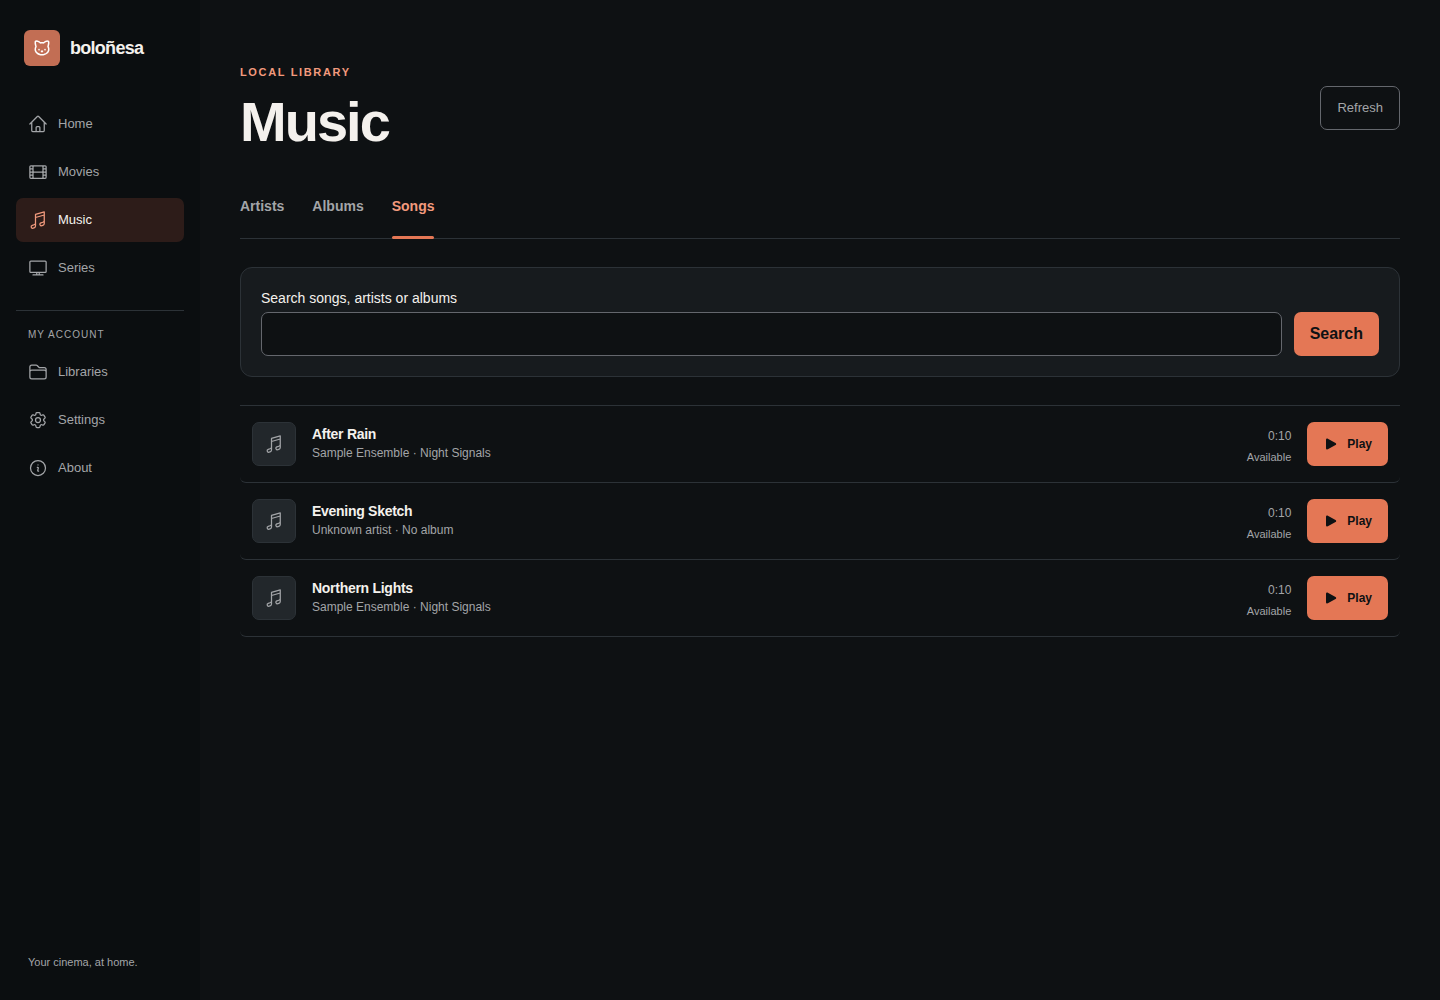
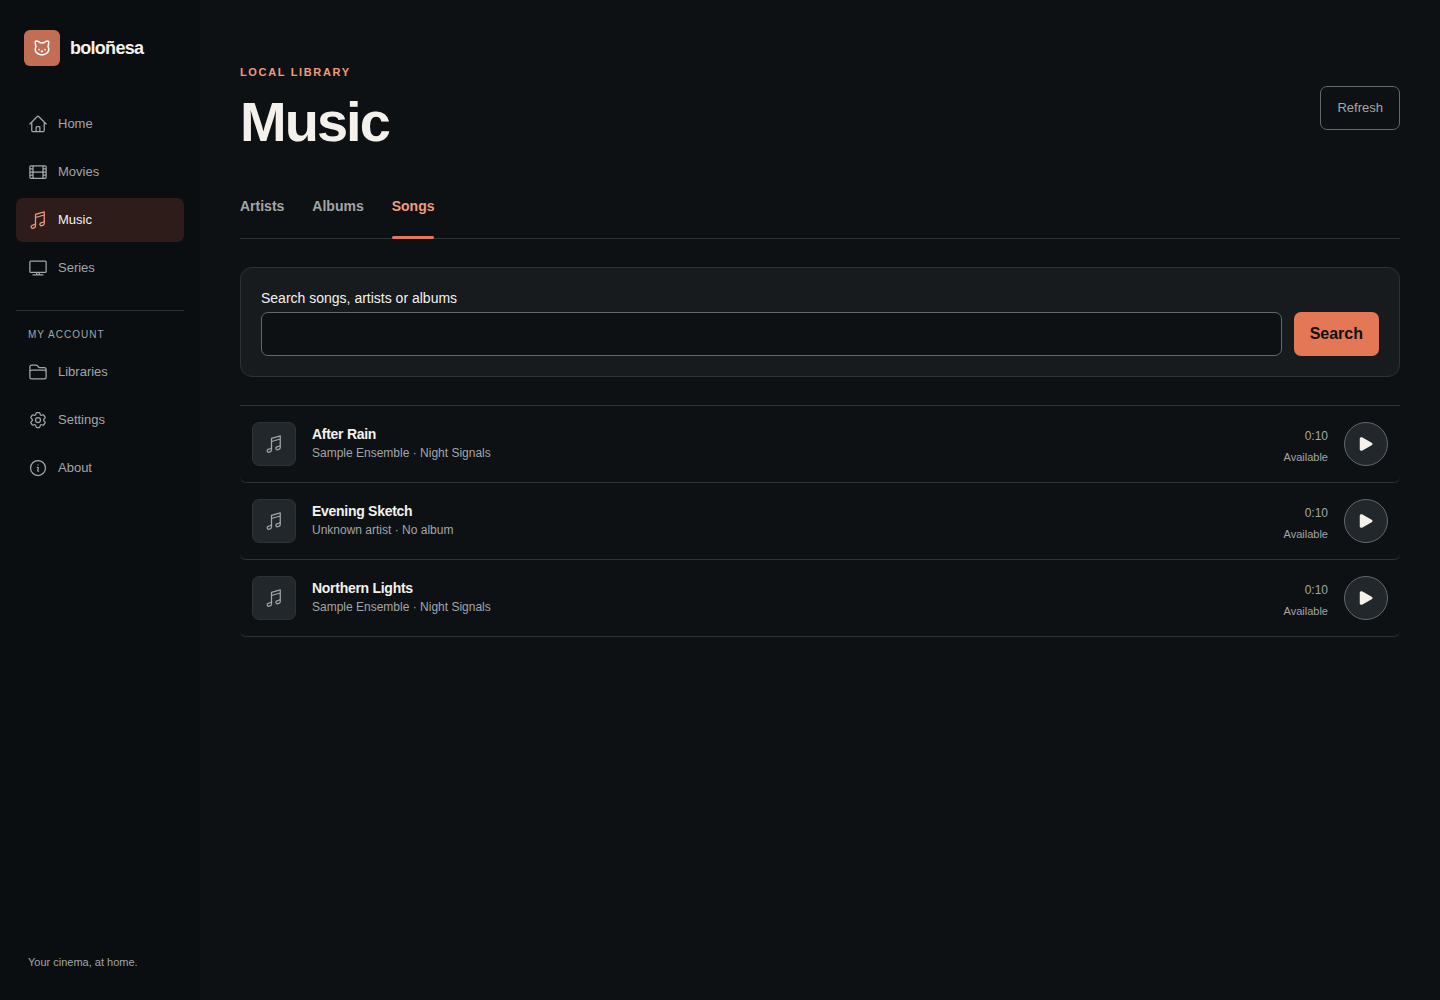
feat(music): show active track playback state

Changed region(s): [[0.875, 0.496, 0.9688, 0.62], [0.875, 0.403, 0.9688, 0.465]]

diff --git a/assets/css/music.css b/assets/css/music.css
@@ -66,7 +66,6 @@
   .music-search button { padding-inline: 12px; }
   .music-group-card { padding: 0; }
   .music-track-art { display: none; }
-  .music-play-label { display: none; }
   .music-track-row { padding-inline: 4px; gap: 10px; }
   .music-album-heading { grid-template-columns: 1fr; padding: 20px; }
   .music-detail-art { width: 100px; grid-row: auto; }
@@ -76,3 +75,32 @@
 .music-player-frame media-i18n, .music-player-frame audio-player { display: contents; }
 .music-player-frame audio-skin { display: block; width: 100%; --media-accent-color: var(--color-accent); --media-accent-text-color: var(--color-canvas); --media-font-family: inherit; }
 .music-player-frame audio { width: 100%; }
+
+/* Playback state belongs to the audio element, including rows inserted by a patch. */
+.app-content .music-track-play { display: inline-flex; align-items: center; justify-content: center; flex-shrink: 0; width: 44px; height: 44px; border: 1px solid var(--color-border-strong); border-radius: 50%; background: var(--color-raised); color: var(--color-ink); }
+.music-track-play:hover { background: var(--color-accent); color: var(--color-canvas); border-color: var(--color-accent); }
+.music-pause-icon, .music-playing-label, .music-paused-label, .music-equalizer { display: none; }
+.music-track-row[data-playback="playing"], .music-track-row[data-playback="paused"] { background: color-mix(in srgb, var(--color-accent) 10%, var(--color-canvas)); box-shadow: inset 3px 0 var(--color-accent); }
+.music-track-row[data-playback] h2 { transition: color .15s; }
+.music-track-row[data-playback="playing"] h2, .music-track-row[data-playback="paused"] h2 { color: var(--color-accent-soft); }
+[data-playback="playing"] .music-playing-label, [data-playback="paused"] .music-paused-label { display: inline; color: var(--color-accent-soft); font-weight: 600; }
+[data-playback="playing"] .music-track-state, [data-playback="paused"] .music-track-state,
+[data-playback="playing"] .music-track-note, [data-playback="paused"] .music-track-note,
+[data-playback="playing"] .music-play-icon { display: none; }
+[data-playback="playing"] .music-pause-icon { display: inline-block; }
+[data-playback="playing"] .music-track-play { background: var(--color-accent); color: var(--color-canvas); border-color: var(--color-accent); }
+[data-playback="playing"] .music-equalizer, [data-playback="paused"] .music-equalizer { display: flex; align-items: center; gap: 3px; height: 20px; color: var(--color-accent-soft); }
+.music-equalizer i { width: 3px; height: 14px; border-radius: 2px; background: currentColor; transform: scaleY(.4); }
+[data-playback="playing"] .music-equalizer i { animation: music-equalize .9s ease-in-out infinite alternate; }
+.music-equalizer i:nth-child(2) { animation-delay: -.6s; height: 20px; }
+.music-equalizer i:nth-child(3) { animation-delay: -.3s; height: 11px; }
+@keyframes music-equalize { to { transform: scaleY(1); } }
+@media (prefers-reduced-motion: reduce) {
+  [data-playback="playing"] .music-equalizer i { animation: none; transform: none; }
+  .music-track-row[data-playback] h2 { transition: none; }
+}
+
+@media (max-width: 479px) {
+  .music-track-row[data-playback="playing"] .music-track-art,
+  .music-track-row[data-playback="paused"] .music-track-art { display: grid; width: 32px; height: 32px; }
+}

diff --git a/assets/js/hooks/audio_track_list.js b/assets/js/hooks/audio_track_list.js
@@ -1,0 +1,47 @@
+// Rows are streamed independently of the player. Reconcile after list patches too.
+export function syncTrackRows(list, audio, source) {
+  for (const row of list.querySelectorAll("[data-track-src]")) {
+    const current = row.dataset.trackSrc === source && !audio.ended && !audio.error
+    const playing = current && !audio.paused
+    row.dataset.playback = current ? (playing ? "playing" : "paused") : ""
+    const button = row.querySelector(".music-track-play")
+    if (button) button.setAttribute("aria-label", playing ? button.dataset.pauseLabel : button.dataset.playLabel)
+  }
+}
+
+export function connectTrackRows(frame, audio, pushEvent) {
+  const list = frame.closest?.(".music-library")?.querySelector("#music-tracks")
+  if (!list) return {sync() {}, destroy() {}}
+  let destroyed = false
+  const sync = () => syncTrackRows(list, audio, frame.dataset.src)
+  const events = ["playing", "pause", "ended", "error", "emptied"]
+  for (const event of events) audio.addEventListener(event, sync)
+  const observer = new MutationObserver(sync)
+  observer.observe(list, {childList: true, subtree: true})
+  const click = event => {
+    const button = event.target.closest(".music-track-play")
+    if (!button || button.closest("[data-track-src]")?.dataset.trackSrc !== frame.dataset.src) return
+    event.preventDefault()
+    event.stopImmediatePropagation()
+    if (!audio.paused && !audio.ended) audio.pause()
+    else {
+      const generation = frame.dataset.generation
+      audio.play().catch(error => {
+        if (!destroyed && generation === frame.dataset.generation && error.name !== "AbortError") {
+          pushEvent(error.name === "NotAllowedError" ? "audio-blocked" : "audio-error", {generation})
+        }
+      })
+    }
+  }
+  list.addEventListener("click", click, true)
+  sync()
+  return {
+    sync,
+    destroy() {
+      destroyed = true
+      observer.disconnect()
+      list.removeEventListener("click", click, true)
+      for (const event of events) audio.removeEventListener(event, sync)
+    },
+  }
+}

diff --git a/assets/js/hooks/audio_player.js b/assets/js/hooks/audio_player.js
@@ -1,5 +1,6 @@
 import "../../vendor/videojs.min.mjs"
 import AudioError from "./audio_error"
+import {connectTrackRows} from "./audio_track_list"
 
 // LiveView owns the frame's data; Video.js owns its children and controls.
 export default {
@@ -23,12 +24,15 @@ export default {
     }
     this.sync()
     AudioError.mounted.call(this.context)
+    this.trackRows = connectTrackRows(this.el, this.audio, (...args) => this.pushEvent(...args))
   },
   updated() {
     this.sync()
     AudioError.updated.call(this.context)
+    this.trackRows.sync()
   },
   destroyed() {
+    this.trackRows.destroy()
     AudioError.destroyed.call(this.context)
     this.audio.pause()
     this.audio.querySelector("source").removeAttribute("src")

diff --git a/docs/status.md b/docs/status.md
@@ -18,6 +18,8 @@ Accounts resource lookups use `fetch_*` names with `{:ok, value}`, `:not_found`,
 
 ## Recorded verification
 
+- Music rows now follow the actual browser audio state with a coral highlight, playing/paused labels, and a reduced-motion-aware equalizer. Circular controls start tracks directly and pause/resume the current audio without replacing it; streamed list patches reconcile the indicator. English and Spanish labels are complete. Local `mix precommit` passed compilation, formatting, Credo, and 544 tests with one skipped; `node --test assets/test/*.mjs` passed 16 tests. Chromium 140 synthetic WAV checks passed row pause/resume, native controls, automatic album advance, and returning to the song list during playback. Desktop/mobile screenshots were refreshed. This change is ready for release; real-device playback remains unverified.
+
 - Video playback shows the Bolognesa cat from the sidebar on a matching coral background until the first frame is available for each selected file, including initial compatible-playback preparation. Later buffering and HLS seek/session replacements do not restore it. The unused Phoenix logo SVG has been removed. Chromium 155 synthetic MP4/HLS checks passed for the correct logo, matching background, initial loading, later buffering, new-file preparation, controls, seeks, pause/resume, fullscreen preservation, and Spanish labels; the opening screenshot was visually inspected. `mix precommit` passed formatting, compilation, Credo, and 544 tests with one skipped. `make check-screenshots` passed unchanged captures and six comparator tests on the final version; one earlier local run differed by 160 pixels with maximum channel delta 3 in the movie mobile capture, and the repeat passed without changes. [Application CI](https://github.com/avillen/bolognesa/actions/runs/39247282488), [screenshot CI](https://github.com/avillen/bolognesa/actions/runs/39247282456), and [image CI](https://github.com/avillen/bolognesa/actions/runs/39247282527) passed for `3063801ac32a4a89232fa4d7035637f9bd893844`; the incoming commits passed the pinned Gitleaks scan. `make deploy-release` deployed image `ghcr.io/avillen/bolognesa@sha256:986098f66ee358e8281f063f7ab73e62debca56941d198013724bce32b19ade5`, created validated backup `pre-migration-20261019-135201-30254.dump`, found migrations current, and passed HTTP health verification. `make deploy-status` confirmed the app is running and PostgreSQL is healthy. HTTP checks confirmed the coral opening styles and hook are served, the logo bytes match the sidebar cat, and the removed Phoenix SVG returns 404. Next step: review representative playback. Real-media and device compatibility remain unverified.
 
 - Music inspection retries a `.mp3`/`.MP3` file with the explicit MP3 demuxer only when automatic detection reports MPEG and its technical metadata is invalid. Both probes share the existing 30-second budget; source/revision checks, output limits, and transient error contracts remain enforced. Regression coverage checks recovery, content-type/extension restrictions, JPEG rejection, command failures, timeouts, and changes during recovery. `MIX_TEST_PARTITION=_scan_fix_final mix precommit` passed compilation, formatting, Credo, and 544 tests with one skipped; `make check-screenshots` passed unchanged captures and six comparator tests. Independent review found no remaining important issues. [Application CI](https://github.com/avillen/bolognesa/actions/runs/39244082459), [screenshot CI](https://github.com/avillen/bolognesa/actions/runs/39244082487), and [image CI](https://github.com/avillen/bolognesa/actions/runs/39244082546) passed for `4392f8f514b0fec03e202a0024470ea26741a565`; the incoming commit passed the pinned Gitleaks scan. `make deploy-release` deployed image `ghcr.io/avillen/bolognesa@sha256:8f460f67f16bb079fb41cdc3ac1adb1a42eb7490f472e947419c9307a5e31dbc`, validated backup `pre-migration-20261019-132413-17118.dump`, found migrations current, and passed HTTP health verification. Application/database mounts remained unchanged and media mounts stayed read-only. Targeted reinspection and Music import succeeded for all three affected MP3 files. Two invalid source files were deleted at the operator’s explicit request; normal scans marked them missing. All three libraries then reported zero failed, pending, running, or uninspected available files. Real-media decoding remains unverified.

diff --git a/docs/decisions/0018-local-music-catalog.md b/docs/decisions/0018-local-music-catalog.md
@@ -16,7 +16,7 @@ Music needs local identities independent of TMDb, musical grouping, and recovery
 - Successful current music inspection and a refresh event commit together. Libraries dispatches minimal file/revision jobs and records their IDs with delivered events atomically. Music owns import state and retries, and may read event references to recover jobs that never wrote import state.
 - Import locks inventory, inspection, then its own state. It rechecks revision, successful token, availability, library type, and audio presence. Forced inspection at the same revision invalidates earlier tokens. Duplicate/stale delivery cannot replace current metadata or downgrade a successful import. Recovery filters obsolete observations before applying batch limits and includes jobs that failed before import state was written. It uses batches of 100, three attempts, a single import worker per instance, five-second dispatch, and thirty-second reconciliation; stale executing work requires both timestamps older than sixty seconds.
 - Authorized reads include pending and failed files without tracks, pagination bounded to 50 items per page, literal search, and library scope. Artist and album groups with no available files are omitted. Explicit retries recover terminal import errors; probe failures use library reanalysis.
-- Playback selects music separately and serves authorized direct audio with shared descriptor validation and byte ranges. The native player belongs to the music page. Individual selection requires native play; explicit album playback requests browser playback and advances on completion, with visible feedback if autoplay is blocked. Album queues contain at most 500 tracks, include pending and failed tracks so playback can report unavailable entries, preserve the album order, reauthorize each selected track, and stop on an unavailable item with a next control. URL patches within the music page preserve listening; full navigation or reload ends the queue.
+- Playback selects music separately and serves authorized direct audio with shared descriptor validation and byte ranges. The native player belongs to the music page. Individual selection and explicit album playback request browser playback and advances on completion, with visible feedback if autoplay is blocked. Album queues contain at most 500 tracks, include pending and failed tracks so playback can report unavailable entries, preserve the album order, reauthorize each selected track, and stop on an unavailable item with a next control. URL patches within the music page preserve listening; full navigation or reload ends the queue.
 
 ## Consequences
 
